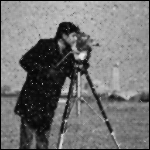
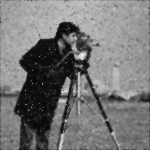
fix bilateral filter problem

Changed region(s): [[0.0, 0.0, 1.0, 1.0]]

diff --git a/submission/dip02_submission.py b/submission/dip02_submission.py
@@ -19,6 +19,7 @@ Assignment 2:  Image Enhancement and Filtering
 import imageio # improt imageio library
 import numpy as np # import numpy library
 
+
 def RSE(imgA,imgB): 
     """This function calculate Root Squared Error between Image A and Image B
     Parameters:
@@ -28,8 +29,20 @@ def RSE(imgA,imgB):
     # np.subtract calcute the error between pixels, after np.square square the error, after np.sum sum all error and finnaly np.sqrt calculate the root square
     return np.sqrt(np.sum(np.square(np.subtract(imgA.astype("float"), imgB.astype("float"))))) 
 
+def unpad(img, pad_len):
+    '''This function unpad  2D  Array padded with same lenght in the all axes
+    Parameters:
+        img: 2D source image
+        pad_len: padding factor used for padding Array
+    '''
+    return img[pad_len:-pad_len,pad_len:-pad_len]
 
 def euclidian_distance(x,y):
+    ''' This functions calculate the euclidian distance between point x and point y
+    Parameters:
+        x: point x
+        y: point y
+    '''
     return np.sqrt(x**2 + y**2)
 
 def gaussian_kernel(fil, sig):
@@ -38,60 +51,61 @@ def gaussian_kernel(fil, sig):
         fil: is the filter/image
         sig: is the sigma
     '''
-    return (1.0 / ( 2 *np.pi * (sig ** 2))) * np.exp(- (np.square(fil) / (2 * sig ** 2)))
+    return (1.0 / ( 2 *np.pi * (sig ** 2))) * np.exp(- (np.square(fil) / (2 *  (sig ** 2))))
 
 def bilateral_filter(input_img, n, sigma_s, sigma_r):
     '''This Function implement the bilateral filter. The Bilateral Filter 
         is a nonlinear filtering technique to smooth images while 
-        preservingedges
+        preserving edges
         
     '''
-    img_shape = input_img.shape
-    
+    pad_len = n-(int(n/2)+1)
+    # padding image
+    input_img = np.pad(input_img, pad_len, mode='constant')
+
+    #copy input image to output image
+    output_img = input_img.copy()
+
     # make a centred origin filter
     w = np.zeros((n,n))
+    img_shape = input_img.shape
+    filter_shape = w.shape
     # get points and aplied euclidian distance
     for i in range(n): 
         for j in range(n):
             x = int(-(n-1)/2)+i
             y = int(-(n-1)/2)+j
-            #print(x,y)
             w[i][j] = euclidian_distance(x,y)  
 
-    #print(w)
     # get filter with kernel gaussian transformation
     w = gaussian_kernel(w, sigma_s).astype(np.float)
-    #print(w)
 
-
-    filter_shape = w.shape
-    output_img = np.zeros(img_shape).astype(np.uint8)
-   
     x = int((filter_shape[0]-1)/2)
-    y = int((filter_shape[1]-1)/2)
-
+    y = int((filter_shape[1]-1)/2)  
 
     # Apply the convolution
     for i in range(x,img_shape[0]-x):
         for j in range(y,img_shape[1]-y):
-            '''Wp = np.zeros((n,n))
-            I_f = np.zeros((n,n)) ''' 
             Wp = 0 
-            I_f = 0     
+            I_f = 0
             # step 1: compute the value of the range Gaussian component, using the Gaussian kernel equation, with σ=σr and x as the diference between the intensity ofthe neighbor pixel and the intensity of the center pixel
             neighbors = input_img[i-x : i+(x+1) , j-y : j+(y+1)].astype(np.float)
-            g_neighbors = gaussian_kernel(neighbors-input_img[i][j],sigma_r).astype(np.float)
-            
-            # step 2: compute the total value of the filter, on this neighbor, by multiplying the value of the range component by the value of the spatial component gsi(in the corresponding position)
-            g_w = np.multiply(g_neighbors,w).astype(np.float)
-            # step 3
-            Wp = g_w
-            # step 4
-            I_f =  np.multiply(g_w,neighbors).astype(np.float)
+            for k in range(filter_shape[0]):
+                for l in range(filter_shape[1]):
+                    #print(input_img[i][j],neighbors[k][l])
+                    g_neighbor = gaussian_kernel(neighbors[k][l]-input_img[i][j],sigma_r).astype(np.float)
+                    # step 2: compute the total value of the filter, on this neighbor, by multiplying the value of the range component by the value of the spatial component gsi(in the corresponding position)
+                    g_w = (g_neighbor * w[k][l])
+                    # step 3
+                    Wp = Wp + g_w
+                    # step 4
+                    I_f = I_f + np.multiply(g_w,neighbors[k][l])
+            # end step        
+            I_f = I_f/Wp
+            output_img[i][j] = (I_f).astype(np.uint8)
 
-            output_img[i,j] = (np.sum(I_f)/np.sum(Wp)).astype(np.uint8)
-
-
+    #unpad image
+    output_img = unpad(output_img, pad_len)
     return output_img
 
 def unsharp_mask_laplacian(input_img, c, kernel):
@@ -111,7 +125,7 @@ def main():
         sigma_s = float(input())
         sigma_r = float(input())
         output_img = bilateral_filter(input_img, n, sigma_s, sigma_r)
-
+        
     if method == 2: # if method 2
         c = float(input()) # its float c <= 1
         kernel = int(input()) # its 1 or 2
